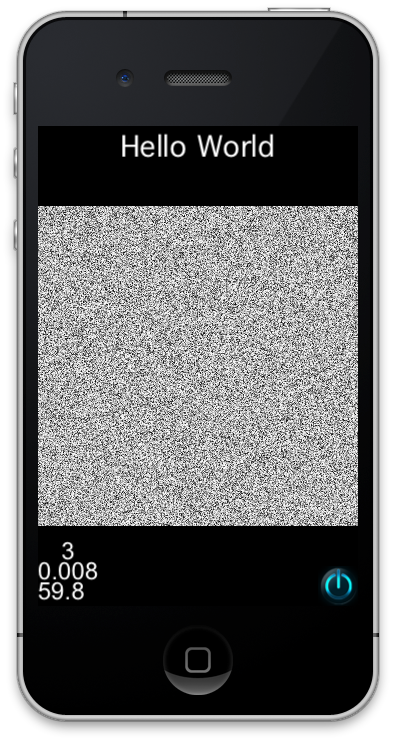
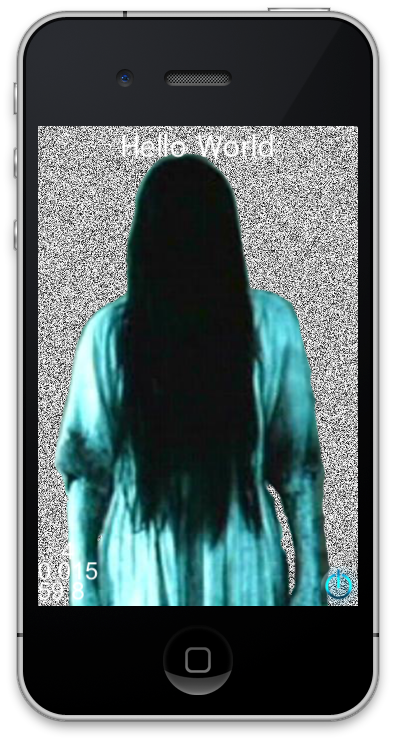
Adding sadako for deeper effect

diff --git a/StaticTV/Classes/HelloWorldScene.cpp b/StaticTV/Classes/HelloWorldScene.cpp
@@ -67,6 +67,7 @@ bool HelloWorld::init()
 
     // position the sprite on the center of the screen
     pSprite->setPosition( ccp(size.width/2, size.height/2) );
+    pSprite->setScale(1.5);
 
     // add the sprite as a child to this layer
     this->addChild(pSprite, 0);
@@ -75,8 +76,17 @@ bool HelloWorld::init()
     //Shader Effects:
     _uniformSprites=CCArray::create();
     _uniformSprites->retain();
-    
     addStaticTVEffectToSprite(pSprite);
+    
+    CCSprite * sadako=CCSprite::create("sadako.png");
+    sadako->setPosition(ccp(size.width/2,size.height/3));
+    addChild(sadako);
+    CCDelayTime * delay=CCDelayTime::create(1.5);
+    CCMoveBy*moveRight=CCMoveBy::create(.01, ccp(15,0));
+    CCMoveBy*moveLeft=CCMoveBy::create(.01, ccp(-30,0));
+    CCFiniteTimeAction*seq=CCSequence::create(delay, moveRight,moveLeft,moveRight);
+    CCRepeatForever*repeat=CCRepeatForever::create((CCSequence *)seq);
+    sadako->runAction(repeat);
     return true;
 }
 
